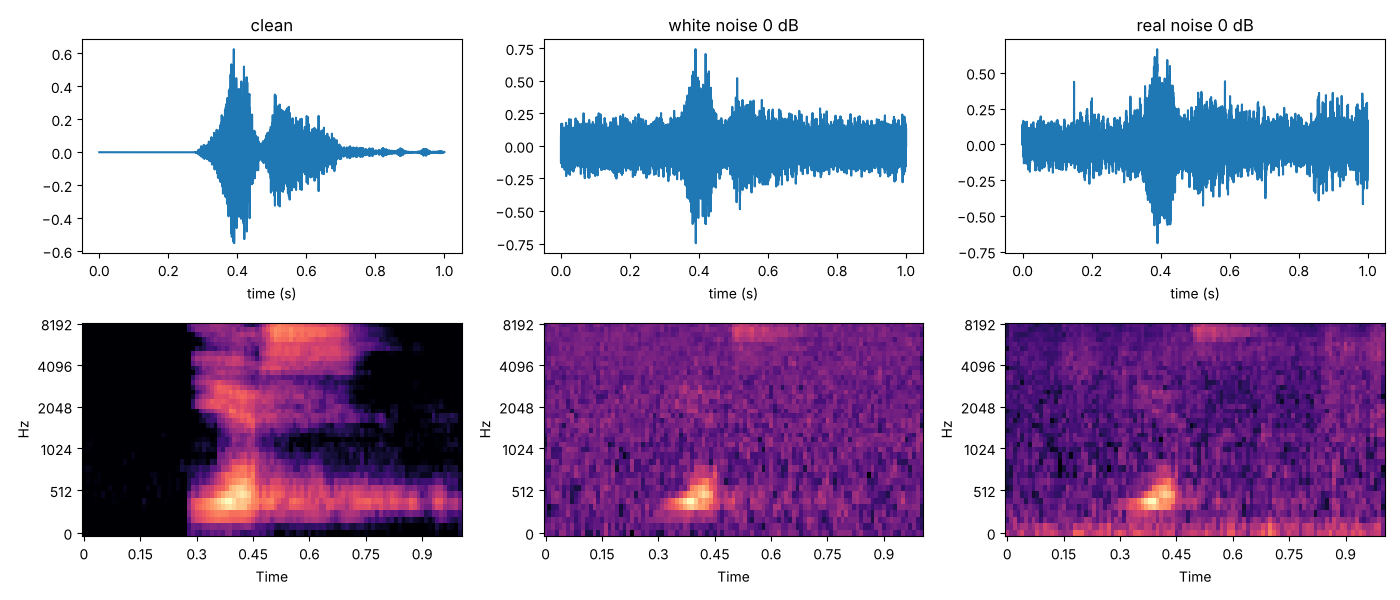
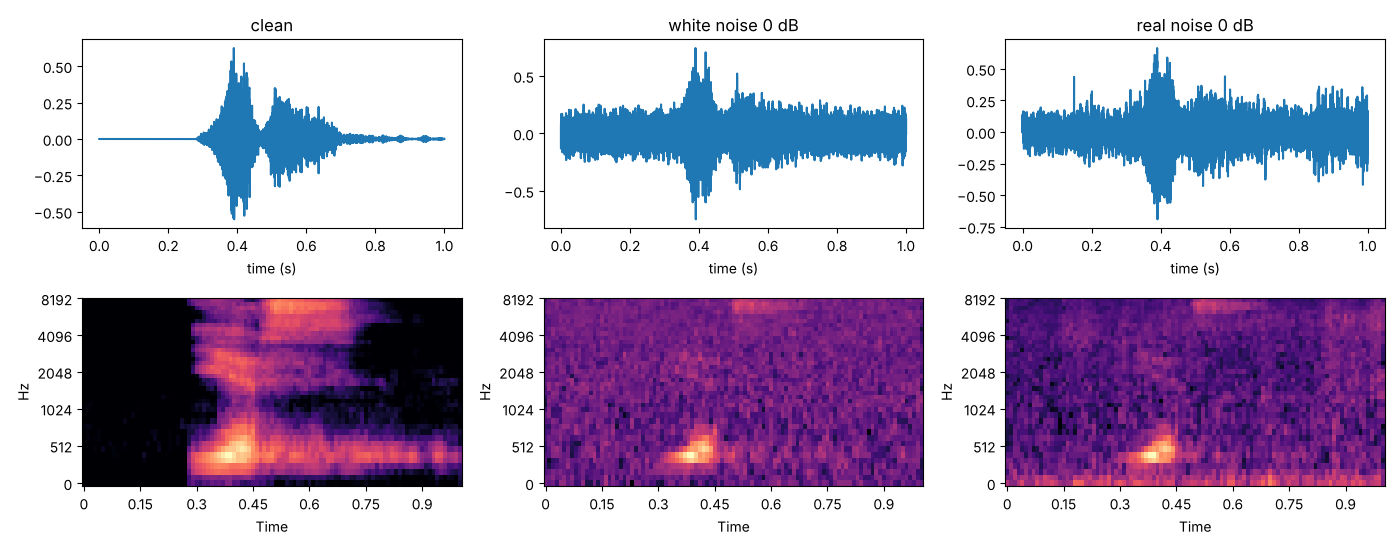
Make figures wider and fix cut-off axis label
Claude-Session: https://claude.ai/code/session_016g9LRapGJkNXDHXBTrJh4x

diff --git a/main.py b/main.py
@@ -89,7 +89,7 @@ print("Feature shape of one recording:", X[0].shape)
 
 # Feature plot for one word
 yes_signal = signals[WORDS.index("yes") * CLIPS_PER_WORD]
-fig, ax = plt.subplots(2, 1, figsize=(8, 6))
+fig, ax = plt.subplots(1, 2, figsize=(12, 3.5))
 ax[0].plot(np.arange(SR) / SR, yes_signal)
 ax[0].set(title='Waveform of "yes"', xlabel="time (s)")
 librosa.display.specshow(log_mel(yes_signal), sr=SR, hop_length=160, x_axis="time",
@@ -206,7 +206,7 @@ example = test_signals[0]
 examples = {"clean": example,
             "white noise 0 dB": add_noise(example, white_noise(SR), 0),
             "real noise 0 dB": add_noise(example, real_noise(SR), 0)}
-fig, ax = plt.subplots(2, 3, figsize=(14, 6))
+fig, ax = plt.subplots(2, 3, figsize=(14, 5.5))
 for col, (title, signal) in enumerate(examples.items()):
     ax[0, col].plot(np.arange(SR) / SR, signal)
     ax[0, col].set(title=title, xlabel="time (s)")
@@ -217,7 +217,7 @@ plt.savefig("results/clean_vs_noisy.png")
 plt.close()
 
 # Plot: accuracy vs SNR
-plt.figure(figsize=(6, 4))
+plt.figure(figsize=(8, 3.5))
 plt.plot(SNRS, accuracy["white"], "o-", label="white noise")
 plt.plot(SNRS, accuracy["real"], "s-", label="real noise")
 plt.axhline(clean_acc, color="gray", linestyle="--", label="clean")
@@ -225,6 +225,7 @@ plt.xlabel("SNR (dB)")
 plt.ylabel("accuracy")
 plt.legend()
 plt.grid()
+plt.tight_layout()
 plt.savefig("results/accuracy_vs_snr.png")
 plt.close()
 
